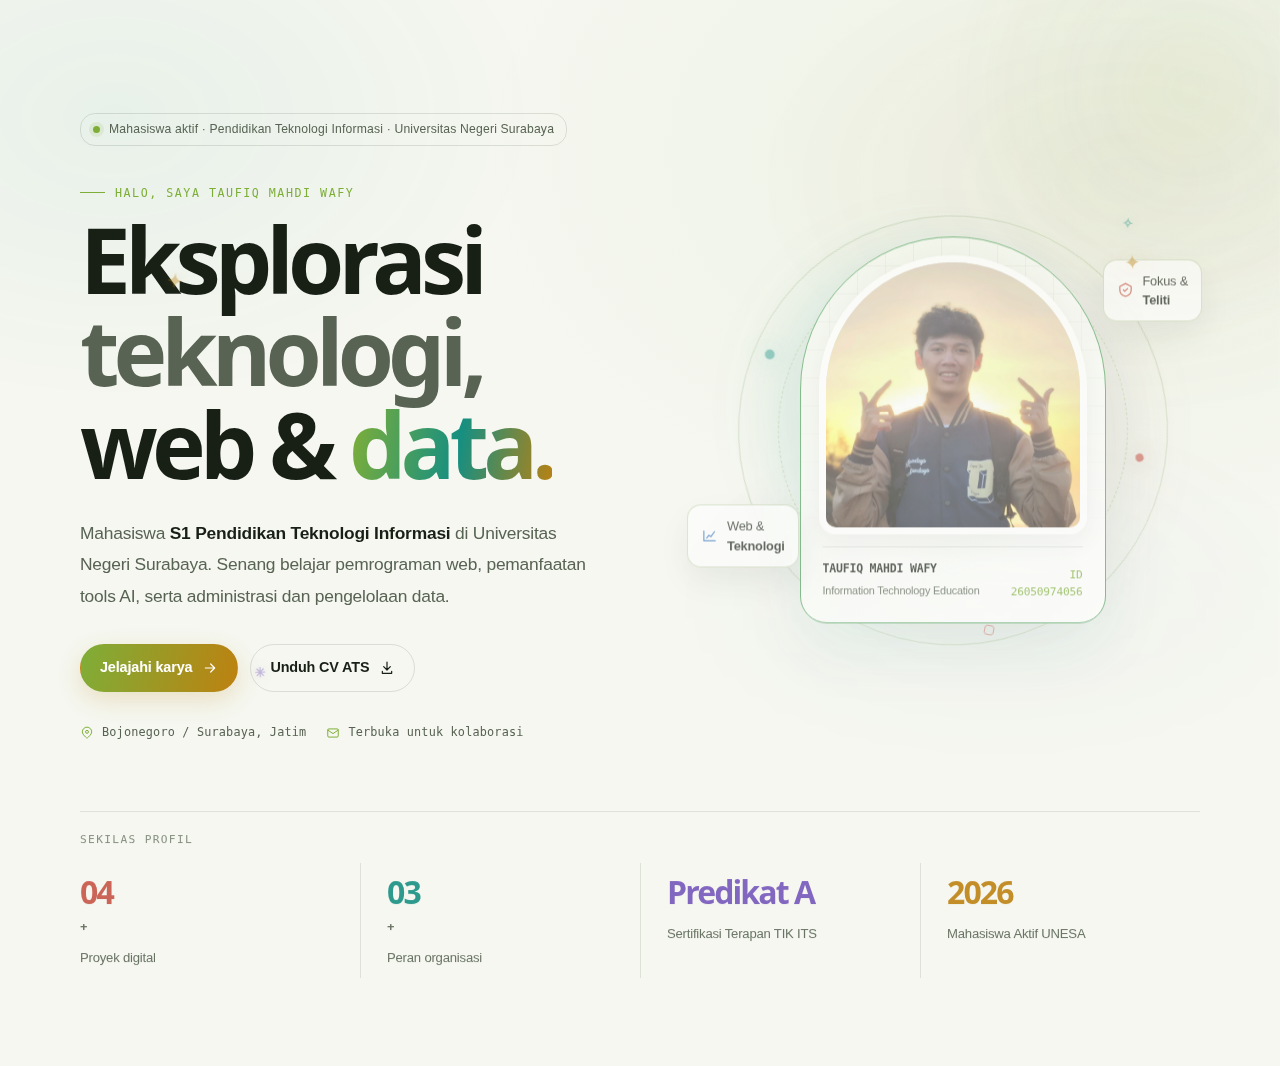
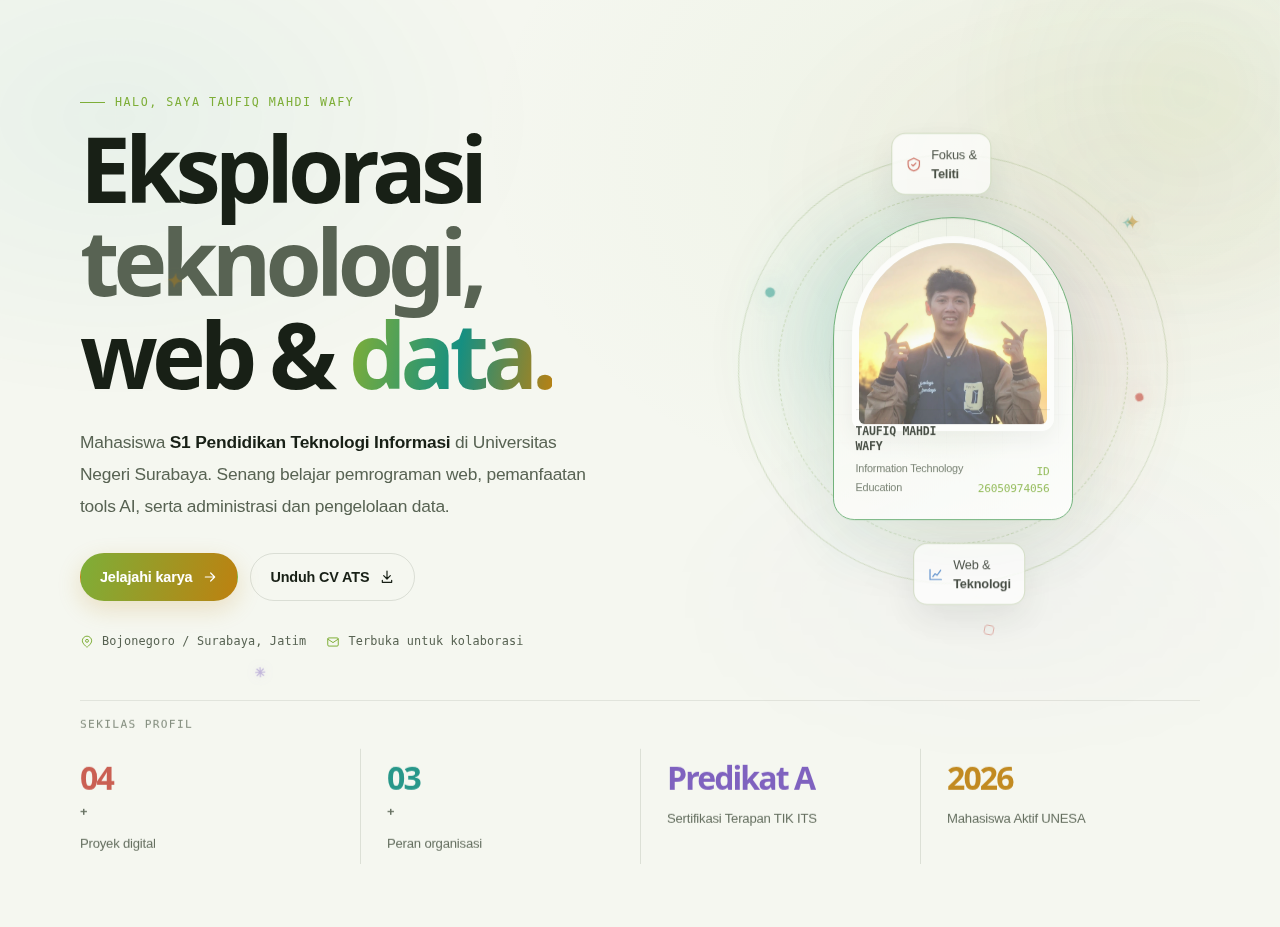
feat(portfolio): integrate Wafy modifications (refined CSS, school org details, Portal Angkatan 2026)

diff --git a/index.html b/index.html
@@ -924,6 +924,65 @@
     /* Cegah pemilihan teks biasa pada halaman portofolio. */
     body, body * { -webkit-user-select: none; user-select: none; }
     body input, body textarea, body select, body [contenteditable="true"] { -webkit-user-select: text; user-select: text; }
+    /* Tata letak lebih ringkas agar konten utama tampil lebih cepat dan mudah dipindai. */
+    .hero { padding-top: clamp(58px, 7vw, 82px); padding-bottom: clamp(46px, 5vw, 64px); }
+    .hero-grid { gap: clamp(24px, 4vw, 44px); }
+    .hero-visual { min-height: 400px; }
+    .hero-bottom { margin-top: clamp(34px, 4vw, 48px); padding-top: 16px; }
+    .section { padding: clamp(72px, 8vw, 96px) 0; }
+    .about-grid { grid-template-columns: minmax(0, .72fr) minmax(0, 1.28fr); gap: clamp(36px, 6vw, 68px); }
+    .about-main p { margin-bottom: 16px; line-height: 1.78; }
+    @media (max-width: 800px) {
+      .hero { padding-top: 58px; padding-bottom: 48px; }
+      .hero-visual { min-height: 320px; }
+      .about-grid { grid-template-columns: minmax(0, 1fr); gap: 28px; }
+      .section { padding: 68px 0; }
+    }
+    @media (max-width: 560px) {
+      .hero { padding: 38px 0 42px; }
+      .hero-bottom { margin-top: 32px; }
+      .section { padding: 56px 0; }
+      .about-grid { gap: 22px; }
+    }
+    .contact-main .btn {
+      color: #182017;
+      background: #fff;
+      border: 2px solid #fff;
+      box-shadow: 0 8px 22px rgba(24, 32, 23, .2);
+    }
+    .contact-main .btn:hover {
+      color: #182017;
+      background: #f2f8e9;
+      border-color: #f2f8e9;
+      box-shadow: 0 12px 28px rgba(24, 32, 23, .26);
+    }
+    .hero-visual { --chip-orbit-x: 190px; --chip-orbit-y: 205px; }
+    .hero-visual .portrait-card { width: min(76%, 240px); }
+    .hero-visual .float-chip.top,
+    .hero-visual .float-chip.bottom {
+      top: 50%;
+      right: auto;
+      bottom: auto;
+      left: 50%;
+      animation: chip-drift 26s cubic-bezier(.45, 0, .55, 1) infinite;
+      will-change: transform;
+    }
+    .hero-visual .float-chip.bottom { animation-delay: -13s; }
+    @keyframes chip-drift {
+      0%, 100% { transform: translate(-50%, -50%) translate(-12px, calc(var(--chip-orbit-y) * -1)); }
+      25% { transform: translate(-50%, -50%) translate(var(--chip-orbit-x), -30px); }
+      50% { transform: translate(-50%, -50%) translate(16px, var(--chip-orbit-y)); }
+      75% { transform: translate(-50%, -50%) translate(calc(var(--chip-orbit-x) * -1), 24px); }
+    }
+    @media (max-width: 800px) {
+      .hero-visual .portrait-card { width: min(70vw, 230px); }
+      .hero-visual .float-chip.top { top: 18px; right: 0; bottom: auto; left: auto; animation: chip-float 6s ease-in-out infinite; }
+      .hero-visual .float-chip.bottom { top: auto; right: auto; bottom: 12px; left: 0; animation: chip-float 6s ease-in-out -3s infinite; }
+    }
+    @media (prefers-reduced-motion: reduce) {
+      .hero-visual .float-chip.top,
+      .hero-visual .float-chip.bottom { animation: none !important; }
+    }
   </style>
 </head>
 <body>
@@ -933,7 +992,6 @@
       <div class="container">
         <div class="hero-grid">
           <div class="hero-content reveal is-visible">
-            <div class="availability"><span class="status-dot"></span><span class="availability-copy">Mahasiswa aktif · Pendidikan Teknologi Informasi · Universitas Negeri Surabaya</span></div>
             <p class="eyebrow">Halo, saya Taufiq Mahdi Wafy</p>
             <h1>Eksplorasi <span class="name-muted">teknologi,</span> web &amp; <span class="accent">data.</span></h1>
             <p class="hero-copy">Mahasiswa <strong>S1 Pendidikan Teknologi Informasi</strong> di Universitas Negeri Surabaya. Senang belajar pemrograman web, pemanfaatan tools AI, serta administrasi dan pengelolaan data.</p>
@@ -983,7 +1041,6 @@
           <div class="detail-grid">
             <div class="detail"><span class="detail-label">Nomor induk mahasiswa</span><div class="detail-value mono">26050974056</div></div>
             <div class="detail"><span class="detail-label">Program studi</span><div class="detail-value">S1 Pendidikan Teknologi Informasi</div></div>
-            <div class="detail"><span class="detail-label">Kelas perkuliahan</span><div class="detail-value mono">PTI 2026D</div></div>
             <div class="detail"><span class="detail-label">Kelompok Ameliorer</span><div class="detail-value">17-Subnet</div></div>
             <div class="detail"><span class="detail-label">Fakultas / Kampus</span><div class="detail-value">Fakultas Teknik · UNESA</div></div>
             <div class="detail"><span class="detail-label">Tahun Angkatan</span><div class="detail-value">2026 (Semester Gasal)</div></div>
@@ -1035,8 +1092,8 @@
           </article>
           <article class="project-card card reveal delay-1" data-category="web">
             <div class="project-top"><span class="project-index">PROJECT / 02</span><span class="project-glyph"><svg viewBox="0 0 24 24" fill="none" stroke="currentColor" stroke-width="1.7" stroke-linecap="round" stroke-linejoin="round" aria-hidden="true"><rect x="3" y="4" width="18" height="17" rx="2"/><path d="M16 2v4M8 2v4M3 9h18M8 14l2 2 5-4"/></svg></span></div>
-            <h3>Portal Voting PDH Informatika 2026</h3>
-            <p>Website pemungutan suara pemilihan bahan seragam angkatan dengan login akun Google SSO UNESA (@mhs.unesa.ac.id).</p>
+            <h3>Portal Angkatan Informatika 2026</h3>
+            <p>Portal digital untuk mahasiswa Informatika angkatan 2026 yang memuat berbagai informasi dan layanan angkatan, termasuk fitur voting dengan akses Google SSO UNESA.</p>
             <div class="project-tags"><span class="tag">E-voting</span><span class="tag">SSO UNESA</span><span class="tag">Cloudflare Edge</span><span class="tag">FastAPI</span></div>
             <a class="project-link" href="https://informatics26.my.id/vote" target="_blank" rel="noopener noreferrer">Buka website <svg viewBox="0 0 24 24" fill="none" stroke="currentColor" stroke-width="1.7" stroke-linecap="round" stroke-linejoin="round" aria-hidden="true"><path d="M7 17 17 7M7 7h10v10"/></svg></a>
           </article>
@@ -1122,23 +1179,33 @@
         </div>
         <div class="timeline">
           <article class="timeline-item reveal">
-            <div class="timeline-top"><h3>Sekretaris 1 &amp; Sekretaris Umum — Language Commission</h3><span class="timeline-period">2024 — 2026</span></div>
-            <div class="timeline-sub">Organisasi Kesiswaan · MAN 4 Jombang</div>
+            <div class="timeline-top"><h3>Sekretaris 1 — Language Commission</h3><span class="timeline-period">2024 — 2025</span></div>
+            <div class="timeline-sub">Al-Madienah Islamic Boarding School</div>
+            <p class="timeline-desc">Bertanggung jawab atas administrasi organisasi, pembuatan surat resmi, arsip dokumen, notulensi rapat, dan penyusunan Laporan Pertanggungjawaban (LPJ).</p>
+          </article>
+          <article class="timeline-item reveal delay-1">
+            <div class="timeline-top"><h3>Sekretaris Umum — Language Commission</h3><span class="timeline-period">2025 — 2026</span></div>
+            <div class="timeline-sub">Al-Madienah Islamic Boarding School</div>
             <p class="timeline-desc">Bertanggung jawab atas administrasi organisasi, pembuatan surat resmi, arsip dokumen, notulensi rapat, dan penyusunan Laporan Pertanggungjawaban (LPJ).</p>
           </article>
           <article class="timeline-item reveal delay-1">
             <div class="timeline-top"><h3>Sekretaris 1 &amp; Humas 1 — PMR Wira MAN 4 Jombang</h3><span class="timeline-period">2023 — 2026</span></div>
-            <div class="timeline-sub">Palang Merah Remaja Unit Sekolah</div>
+            <div class="timeline-sub">Unit MAN 4 Jombang</div>
             <p class="timeline-desc">Mengurus surat perizinan, pendataan anggota aktif, serta menjadi narahubung koordinasi kegiatan donor darah bersama PMI Cabang Jombang.</p>
           </article>
           <article class="timeline-item reveal">
-            <div class="timeline-top"><h3>Sekretaris 1 — Kepanitiaan Language Fair</h3><span class="timeline-period">2025 — 2026</span></div>
-            <div class="timeline-sub">Festival Bahasa Pelajar</div>
+            <div class="timeline-top"><h3>Sekretaris 1 — Kepanitiaan Language Fair</h3><span class="timeline-period">2025</span></div>
+            <div class="timeline-sub">Kolaborasi Language Commission dengan MAN PK Jombang</div>
+            <p class="timeline-desc">Mengelola administrasi kegiatan, perizinan, undangan, rekapitulasi data pendaftaran peserta, dan pembuatan sertifikat kejuaraan.</p>
+          </article>
+          <article class="timeline-item reveal delay-1">
+            <div class="timeline-top"><h3>Sekretaris 1 — Kepanitiaan Language Fair</h3><span class="timeline-period">2026</span></div>
+            <div class="timeline-sub">Kolaborasi Language Commission dengan MAN PK Jombang</div>
             <p class="timeline-desc">Mengelola administrasi kegiatan, perizinan, undangan, rekapitulasi data pendaftaran peserta, dan pembuatan sertifikat kejuaraan.</p>
           </article>
           <article class="timeline-item reveal delay-1">
             <div class="timeline-top"><h3>Panitia Pelaksana &amp; Sekretaris Acara PMR</h3><span class="timeline-period">2024</span></div>
-            <div class="timeline-sub">Kegiatan Diklatsar &amp; Bakti Sosial PMR</div>
+            <div class="timeline-sub">Kepengurusan Organisasi dan Kegiatan PMR</div>
             <p class="timeline-desc">Menjadi sekretaris pelaksana kegiatan Diklatsar PMR, panitia donor darah, dan tim dokumentasi publikasi kegiatan sekolah.</p>
           </article>
         </div>
